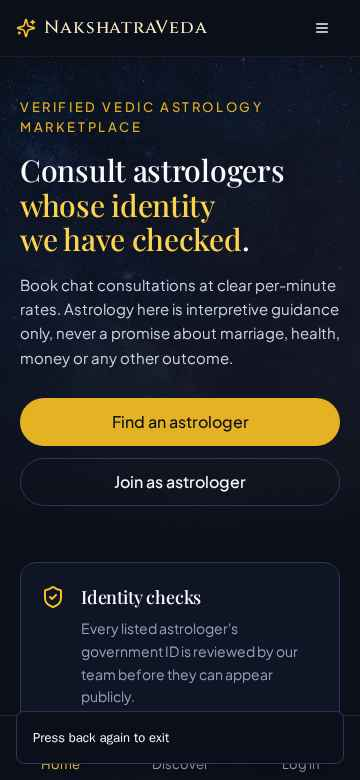
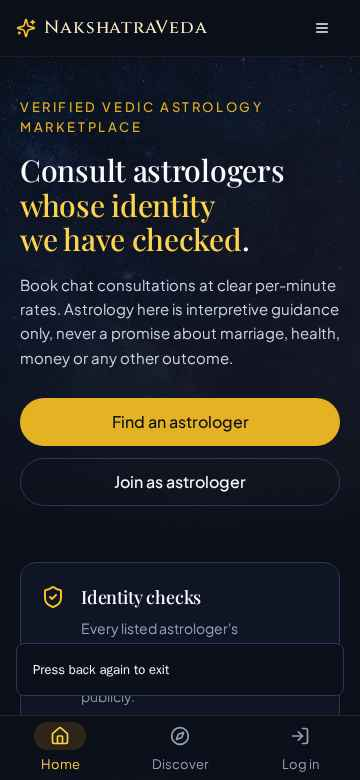
## Android Back button aur Discover mein sudhar hua hai (browser mein test kiya gaya hai, phone par abhi tak nahi)
Back button ka poora niyam aur Discover ke filters aur cards ki photo ab browser mein sahi kaam karte hain. Yeh abhi tak asli Android phone ya emulator par test nahi hua hai, kyunki is server par APK banana sambhav nahi hai.

**Back button ki vyavahaar:**
- **Andar ki screens par:** ek Back ek screen peeche leta hai, jaise Profile → Discover → Home.
- **Popup khula ho to:** drawer, popup, login sheet ya dropdown khula ho to pehla Back usse band karta hai.
- **Home screen par:** Back par neeche "Press back again to exit" dikhega. Agar 2 second ke andar fir se Back dabayenge to app Android ke tareeke se band hogi. 2 second ke baad yeh message dobara dikhega.
- **Seedha link se khuli screen:** agar peeche koi screen nahi hai (jaise kisi link se seedha profile khuli ho), to Back Home par le jata hai. Booking, payment ya login screen se app achanak band nahi hoti.
- **Gadbad se bachav:** poore app mein Back ke liye ek hi listener hai, jisse do baar navigation ya beech mein app band hone ka khatra nahi hota.

**Recent Apps / Overview button:** Jaise ki Android ka native behaviour hai, Recent Apps button puri tarah Android dwara control hota hai. Iske liye koi additional code ya fullscreen setting nahi milti hai. App wapas kholne par wahi screen aur data milti hai.

**Discover screen ke sudhar:**
- Search, language, expertise, experience, "Credentials reviewed" switch, sort aur page number ki settings ab yaad rehte hain.
- Profile dekhkar vapas aane par sab waise hi dikhta hai.
[…]

diff --git a/tests/ui_iter12_extra.py b/tests/ui_iter12_extra.py
@@ -1,0 +1,48 @@
+# Iteration 12: verify race scenario actually issues q=A request, hero img attrs, top-center toast position
+import asyncio, glob
+from playwright.async_api import async_playwright
+
+BASE = "https://guru-astro-hub.preview.emergentagent.com"
+EXE = glob.glob("/pw-browsers/chromium_headless_shell-1208/*/headless_shell")[0]
+
+
+async def main():
+    async with async_playwright() as p:
+        b = await p.chromium.launch(executable_path=EXE)
+        ctx = await b.new_context(viewport={"width": 390, "height": 844})
+        page = await ctx.new_page()
+        reqs = []
+        page.on("request", lambda r: reqs.append(r.url) if "/api/astrologers?" in r.url else None)
+
+        async def slow_first(route):
+            if route.request.url.endswith("q=A") or "q=A&" in route.request.url:
+                await asyncio.sleep(3)
+            await route.continue_()
+        await page.goto(BASE + "/discover", wait_until="networkidle")
+        await page.route("**/api/astrologers?*", slow_first)
+        reqs.clear()
+        await page.click('[data-testid="filter-search"]')
+        await page.keyboard.type("Ac", delay=300)
+        await page.wait_for_timeout(4500)
+        print("requests:", reqs)
+        print("q=A fired:", any("q=A&" in u or u.endswith("q=A") for u in reqs))
+        print("count:", await page.inner_text('[data-testid="results-count"]'))
+
+        await page.goto(BASE + "/", wait_until="networkidle")
+        attrs = await page.evaluate("""() => { const i=document.querySelector('img[src="/hero.jpg"]'); return i ? [i.getAttribute('width'), i.getAttribute('height'), i.naturalWidth] : null }""")
+        print("hero img attrs:", attrs)
+
+        # top-center toast via sonner: trigger by evaluating a failing login on login page
+        await page.goto(BASE + "/login", wait_until="networkidle")
+        try:
+            await page.fill('[data-testid="login-email"]', "nobody@nakshatraveda.test")
+            await page.fill('[data-testid="login-password"]', "wrongpass1")
+            await page.click('[data-testid="login-submit"]')
+            await page.wait_for_selector('[data-sonner-toast]', timeout=6000)
+            box = await page.evaluate("""() => { const t=document.querySelector('[data-sonner-toast]').getBoundingClientRect(); const ol=document.querySelector('[data-sonner-toaster]'); return {y:t.y, bottom:t.bottom, yPos: ol.getAttribute('data-y-position')} }""")
+            print("top toast:", box)
+        except Exception as e:
+            print("top toast check skipped:", e)
+        await b.close()
+
+asyncio.run(main())

diff --git a/memory/PRD.md b/memory/PRD.md
@@ -56,6 +56,12 @@ Customer seeking guidance; independent astrologer; platform admin/finance/safety
 - Root cause: Chrome <87 WebViews ignore the CSS `inset` shorthand, so the hero image, drawer and overlays weren't anchored. Fixed with scripts/postcss-inset-fallback.js, appended to CRA's postcss-loader in craco.config.js webpack.configure
 - Drawer: min(84vw,320px), brand row, 48px aligned links, stacked full-width Log in/Join, trust card at the bottom, safe-area insets, black/50 backdrop, no focus ring on open
 
+## Implemented (2026-10-20), Android Back exit + Discover state
+- Root-screen double-press exit: the first Back shows "Press back again to exit" (bottom, above the nav); a second press within 2 s calls App.exitApp(); after 2 s it re-arms. Nested screens with no history go home and never exit
+- Discover filters, sort and page live in the URL (replace), so Back from a profile restores them; clear-filters; singular/plural count
+- useApi ignores out-of-order responses; Avatar falls back to initials on error; image width/height set
+- Audit: no immersive/fullscreen flags, Recent Apps untouched; dev-only window.__nvBack for QA (not in the production bundle)
+
 ## Known limitations
 - Payments are MOCKED (mock_sandbox). A real provider (e.g. Razorpay with Route for marketplace splits) must be confirmed and plugged into finance.PaymentProvider
 - Audio/video NOT operational (no SDK credentials)
